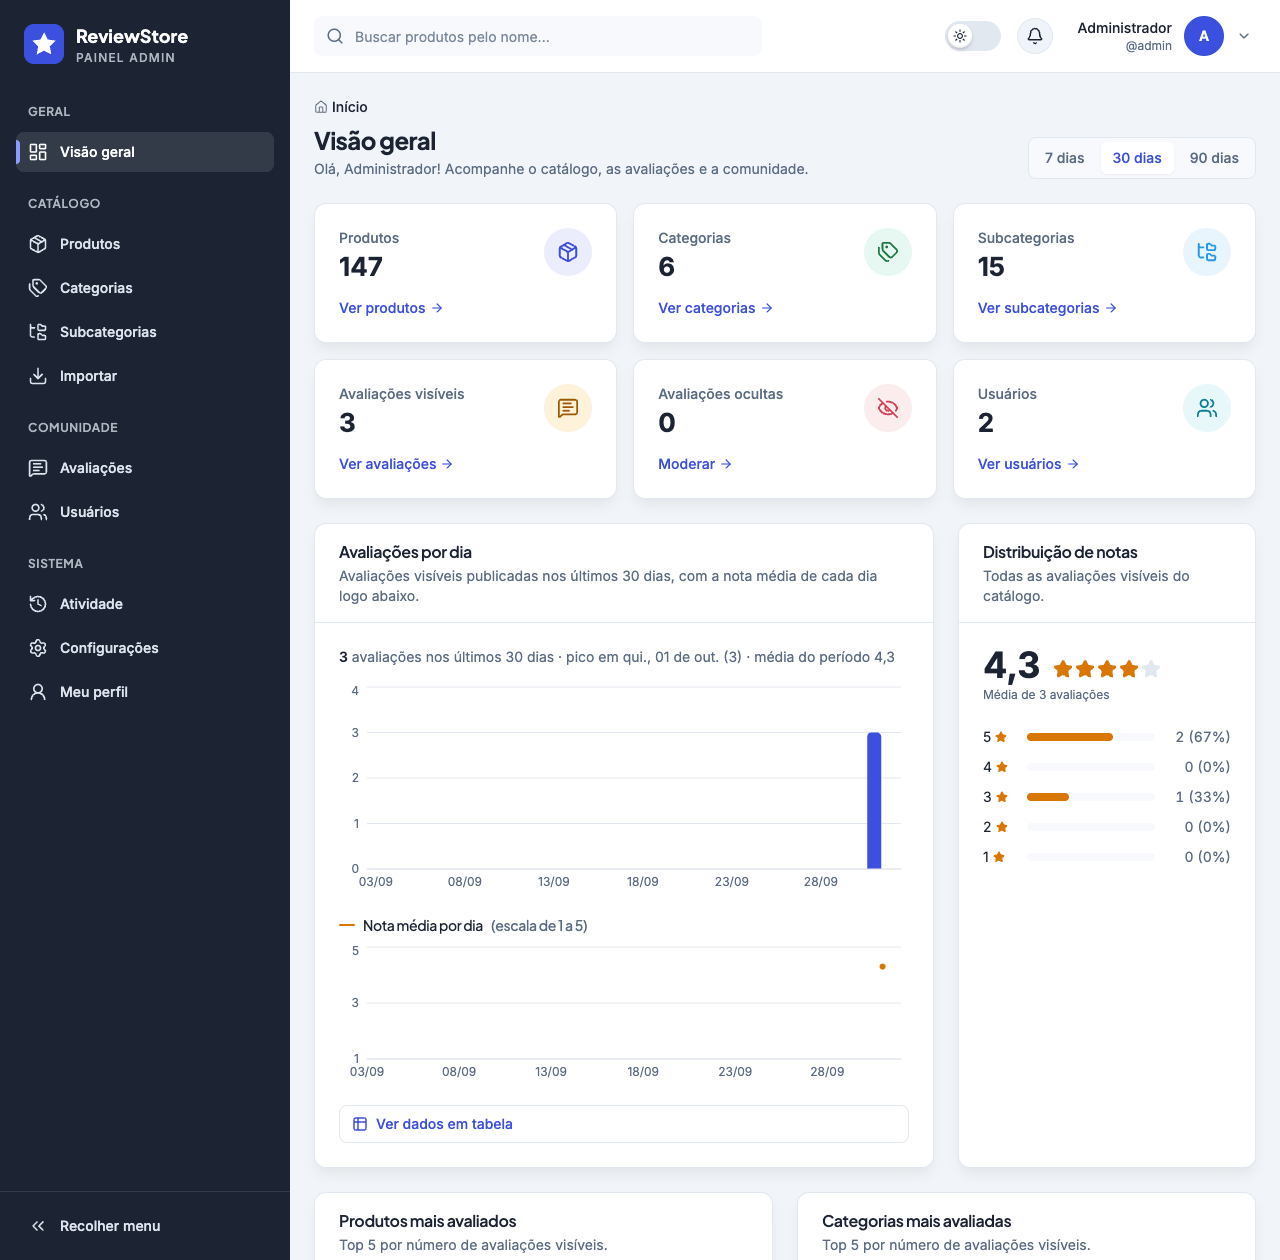
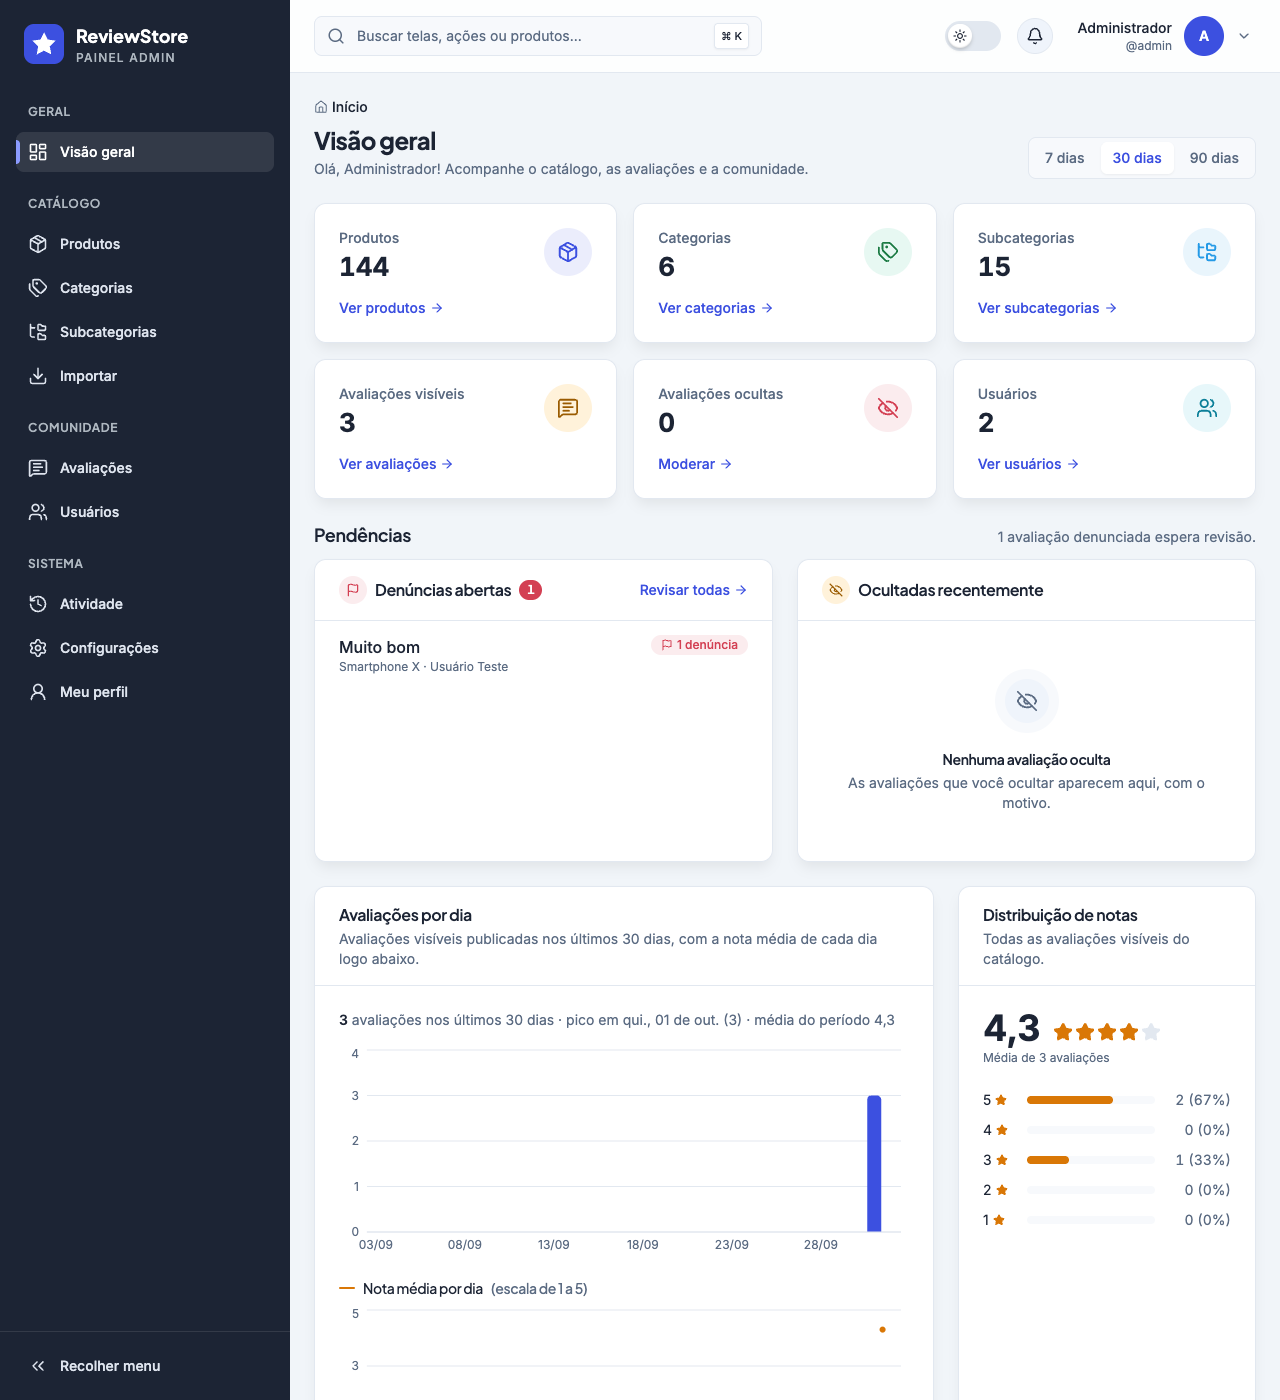
docs(readme): documenta denúncias, resposta, lote, exportação, busca rápida e testes

diff --git a/README.md b/README.md
@@ -5,7 +5,7 @@
 # ReviewStore · Painel admin
 
 **Painel administrativo do catálogo e das avaliações do ecossistema _Production Review_.**
-Gerencie o catálogo, importe produtos reais do Open Food Facts, modere avaliações, administre usuários e acompanhe tudo em gráficos, na trilha de auditoria e em tempo real.
+Gerencie o catálogo, importe produtos reais do Open Food Facts, trate denúncias, responda e modere avaliações (uma a uma ou em lote), administre usuários, exporte CSV e acompanhe tudo em gráficos, na trilha de auditoria e em tempo real. Tudo a um <kbd>Ctrl</kbd> <kbd>K</kbd> de distância.
 
 <p>
   <img alt="React 18" src="https://img.shields.io/badge/React-18-3C50E0?style=for-the-badge&logo=react&logoColor=white" />
@@ -18,6 +18,7 @@ Gerencie o catálogo, importe produtos reais do Open Food Facts, modere avaliaç
   <img alt="Recharts" src="https://img.shields.io/badge/gráficos-Recharts-1C2434?style=flat-square" />
   <img alt="TanStack Query" src="https://img.shields.io/badge/TanStack_Query-1C2434?style=flat-square" />
   <img alt="Vitest" src="https://img.shields.io/badge/testes-Vitest-1C2434?style=flat-square" />
+  <img alt="Playwright" src="https://img.shields.io/badge/E2E-Playwright-1C2434?style=flat-square" />
   <img alt="Modo escuro" src="https://img.shields.io/badge/modo-escuro-24303F?style=flat-square" />
   <img alt="Padrão MVVM" src="https://img.shields.io/badge/arquitetura-MVVM-1C2434?style=flat-square" />
 </p>
@@ -25,6 +26,7 @@ Gerencie o catálogo, importe produtos reais do Open Food Facts, modere avaliaç
 [Funcionalidades](#-funcionalidades) ·
 [Telas](#-telas) ·
 [Como rodar](#-como-rodar) ·
+[Testes](#-testes) ·
 [Arquitetura](#-arquitetura) ·
 [Acessibilidade](#-acessibilidade) ·
 [Design system](#-design-system)
@@ -43,35 +45,58 @@ Gerencie o catálogo, importe produtos reais do Open Food Facts, modere avaliaç
 
 | | |
 |---|---|
-| 📊 **Visão geral com gráficos** | Totais (produtos, categorias, subcategorias, avaliações visíveis e ocultas, usuários), avaliações por dia com a nota média de cada dia, distribuição de notas, top 5 produtos e categorias e novos usuários por dia, com período de **7, 30 ou 90 dias**. |
+| 📊 **Visão geral com gráficos** | **Pendências** no topo (denúncias abertas e avaliações ocultadas por último), totais (produtos, categorias, subcategorias, avaliações visíveis e ocultas, usuários), avaliações por dia com a nota média de cada dia, distribuição de notas, top 5 produtos e categorias e novos usuários por dia, com período de **7, 30 ou 90 dias**. |
 | 📦 **Catálogo completo** | CRUD de categorias, subcategorias e produtos, com slug gerado automaticamente a partir do nome (e editável). Produtos com **miniatura, nota média**, filtros por categoria/subcategoria e ordenação (recentes, nome, melhor avaliados, mais avaliados). |
 | 🖼 **Imagens de produto** | Galeria na edição do produto, com capa, origem (ex.: Open Food Facts) e **exclusão**; upload com validação de tipo e tamanho. |
-| 📥 **Importar catálogo** | Importação do **Open Food Facts** (dados abertos, ODbL) com **progresso ao vivo**: barra, passo atual, contadores, erros e resumo com links. Idempotente: nada é duplicado. |
-| 🛡 **Moderação de avaliações** | Abas *Todas · Visíveis · Ocultas* com contadores, filtros por produto, nota e texto, **ocultar com motivo obrigatório**, restaurar e quem moderou e quando. |
+| 📥 **Importar catálogo** | Importação do **Open Food Facts** (dados abertos, ODbL) com **progresso ao vivo**: barra, passo atual, contadores, erros e resumo com links. Idempotente: nada é duplicado. **Remover duplicados** com confirmação e resumo (grupos, removidos e links para os mantidos). |
+| 🛡 **Moderação de avaliações** | Abas *Todas · Visíveis · Ocultas · Denunciadas* com contadores, filtros por produto, nota e texto, **ocultar com motivo obrigatório** (com motivos rápidos), restaurar e quem moderou e quando. |
+| 🚩 **Denúncias** | Selo com o número de denúncias em cada linha e painel lateral com motivo, detalhes, quem denunciou e quando. **Descartar** mantém a avaliação; **Ocultar** já sugere o motivo a partir das denúncias e as resolve. |
+| 💬 **Resposta oficial** | Escrever, editar e remover a “Resposta da equipe ReviewStore” (até 1000 caracteres, com contador), visível na linha e no painel da avaliação. |
+| 🖼 **Fotos das avaliações** | Miniaturas na moderação, visualizador acessível (setas, <kbd>Esc</kbd>, “Foto 2 de 3”) e remoção pelo admin. |
+| ☑ **Moderação em lote** | Checkboxes com “selecionar página”, barra fixa com **Ocultar selecionadas** (motivo obrigatório) e **Restaurar selecionadas**, contando só as avaliações em que a ação faz sentido. |
+| 📄 **Exportar CSV** | Avaliações (com os filtros atuais), usuários e atividade, com o nome de arquivo do `Content-Disposition` (UTF-8 com BOM e `;`, prontos para o Excel). |
+| ⌨ **Busca rápida** | <kbd>Ctrl</kbd> <kbd>K</kbd> / <kbd>⌘</kbd> <kbd>K</kbd> ou o botão do header: vai para qualquer tela ou ação e busca produtos pelo autocompletar da API. |
 | 👥 **Usuários** | Busca, filtros por perfil e situação, **tornar/remover administrador** e **desativar/reativar** com confirmação. As ações sobre a própria conta ficam bloqueadas, com explicação. |
 | 🕵 **Atividade (auditoria)** | Linha do tempo de todos os eventos (cadastros, logins, catálogo, avaliações, moderação, importações) com ícone e cor por tipo, filtros por tipo, entidade, período e busca, resumo por tipo e por dia e links para a entidade. |
 | 🔔 **Notificações em tempo real** | Cada nova avaliação chega via **SSE** com tipo do evento, data em que ocorreu e link direto, além de atualizar listas e gráficos. |
-| 🔐 **Sessão segura** | Cookies `httpOnly`, renovação automática pelo refresh token e tela de **acesso restrito** para quem não é administrador. |
+| 🔐 **Sessão segura** | Cookies `httpOnly`, renovação automática pelo refresh token, tela de **acesso restrito** para quem não é administrador, política de senha da API (8 a 72 caracteres, letras e números) e **contagem regressiva** quando o rate limit (429) pede uma pausa. |
 | 🌗 **Modo escuro** | Tema claro e escuro sincronizados em todo o painel, preferência salva no navegador. |
+| 📏 **Tabelas confortáveis** | Densidade confortável ou compacta (salva no navegador), cabeçalho fixo e ações agrupadas no menu “Mais ações”. |
 | 📱 **Responsivo** | Menu lateral recolhível no desktop e em gaveta no celular. |
 
 ## 🖼 Telas
 
 <table>
   <tr>
+    <td width="50%"><img src="docs/screenshots/denuncias.png" alt="Painel lateral com as denúncias de uma avaliação, motivos, detalhes e as ações descartar e ocultar" /></td>
+    <td width="50%"><img src="docs/screenshots/resposta.png" alt="Painel da avaliação com foto e a resposta oficial da equipe, com editar e remover" /></td>
+  </tr>
+  <tr>
+    <td align="center"><sub><b>Denúncias</b>: motivos, detalhes, descartar ou ocultar</sub></td>
+    <td align="center"><sub><b>Resposta oficial</b> e fotos da avaliação</sub></td>
+  </tr>
+  <tr>
+    <td width="50%"><img src="docs/screenshots/lote.png" alt="Avaliações selecionadas com a barra de ações em lote para ocultar ou restaurar" /></td>
+    <td width="50%"><img src="docs/screenshots/busca-rapida.png" alt="Busca rápida aberta com Ctrl+K mostrando produtos encontrados e atalhos de teclado" /></td>
+  </tr>
+  <tr>
+    <td align="center"><sub><b>Moderação em lote</b>: selecionar página e barra fixa</sub></td>
+    <td align="center"><sub><b>Busca rápida</b> (<kbd>Ctrl</kbd> <kbd>K</kbd>): telas, ações e produtos</sub></td>
+  </tr>
+  <tr>
     <td width="50%"><img src="docs/screenshots/produtos.png" alt="Tabela de produtos com miniatura, categoria, nota média, filtros e ordenação" /></td>
     <td width="50%"><img src="docs/screenshots/importar.png" alt="Importação do Open Food Facts com explicação da fonte, licença e taxonomia" /></td>
   </tr>
   <tr>
     <td align="center"><sub><b>Produtos</b>: miniatura, nota, filtros e ordenação</sub></td>
-    <td align="center"><sub><b>Importar catálogo</b>: Open Food Facts com progresso ao vivo</sub></td>
+    <td align="center"><sub><b>Importar catálogo</b>: progresso ao vivo e remover duplicados</sub></td>
   </tr>
   <tr>
     <td width="50%"><img src="docs/screenshots/avaliacoes.png" alt="Lista de avaliações com abas de status, filtros e ações de moderação" /></td>
     <td width="50%"><img src="docs/screenshots/moderacao.png" alt="Modal de ocultar avaliação com motivo obrigatório" /></td>
   </tr>
   <tr>
-    <td align="center"><sub><b>Avaliações</b>: abas por status, filtros e ações</sub></td>
+    <td align="center"><sub><b>Avaliações</b>: abas, denúncias, fotos, resposta e exportação</sub></td>
     <td align="center"><sub><b>Moderação</b>: ocultar exige motivo</sub></td>
   </tr>
   <tr>
@@ -125,13 +150,38 @@ npm run dev
 | `npm run build` | Checagem de tipos (`tsc -b`) + build de produção em `dist/` |
 | `npm run preview` | Serve o build de produção localmente |
 | `npm run lint` | ESLint em todo o projeto |
-| `npm test` | Testes unitários com Vitest (slug, mensagens de erro, schemas, eventos de auditoria, status, progresso da importação e dados dos gráficos) |
+| `npm test` | Testes unitários e de componente (Vitest + Testing Library) |
+| `npm run test:watch` | Vitest em modo observação |
+| `npm run test:e2e` | E2E com Playwright e a API **mockada** (sobe o `npm run dev` se ele não estiver rodando) |
+| `npm run test:e2e:ui` | E2E no modo interativo do Playwright |
+| `npm run test:e2e:real` | E2E contra a API real (`E2E_REAL_API=1`), pulando os testes que alteram dados |
 
 ### Variáveis de ambiente
 
 | Variável | Exemplo | Descrição |
 |---|---|---|
 | `VITE_API_URL` | `http://localhost:8084/api/v1` | URL base da API, incluindo `/api/v1` |
+
+## 🧪 Testes
+
+**Unitários e de componente** (Vitest + Testing Library, `src/**/*.test.ts(x)`): lógica pura (datas UTC, política de senha, rate limit, CSV, denúncias, eventos, status, seleção) e os componentes-chave, testados como o usuário os usa (papéis ARIA, teclado e foco): busca rápida, barra de lote, modal de motivo, formulário de resposta, exportação CSV e visualizador de fotos.
+
+**E2E** (Playwright, `test/e2e`): a API é mockada com `page.route` por uma API falsa **com estado** (`support/mock-api.ts`) e fixtures no formato do contrato (`fixtures/data.ts`), então os testes rodam sem backend e conferem o corpo de cada chamada. Qualquer erro de JavaScript na página reprova o teste.
+
+| Fluxo | Arquivo |
+|---|---|
+| Login admin → visão geral com pendências · usuário comum vê “acesso restrito” · 429 com contagem regressiva | `auth.e2e-spec.ts` |
+| Filtrar denunciadas → ocultar (resolve as denúncias) e descartar | `reports.e2e-spec.ts` |
+| Responder, editar e remover a resposta · fotos no visualizador e remoção | `reply.e2e-spec.ts` |
+| Moderação em lote: selecionar página, ocultar com motivo e restaurar | `bulk.e2e-spec.ts` |
+| Exportar CSV de avaliações (filtros atuais), usuários e atividade | `export.e2e-spec.ts` |
+| Remover duplicados com confirmação e resumo | `dedupe.e2e-spec.ts` |
+| Busca rápida: <kbd>Ctrl</kbd> <kbd>K</kbd>, setas, <kbd>Enter</kbd>, <kbd>Esc</kbd> e foco | `command-palette.e2e-spec.ts` |
+
+> [!TIP]
+> Localmente o Playwright usa o **Chrome instalado** (`channel: "chrome"`) e reaproveita o `npm run dev`. Com `E2E_REAL_API=1`, o global-setup faz login uma vez e guarda a sessão em `test/.auth/` (a API aceita só 5 logins por minuto); os testes que alteram dados são pulados.
+
+No CI (`testings.yml`) rodam lint, tipos dos E2E, testes, build e os E2E (com o Chromium do Playwright, contra o build servido pelo `vite preview`); o relatório do Playwright fica como artefato. O **Dependabot** abre uma PR semanal agrupada para o npm e uma mensal para as actions.
 
 ## 🐳 Docker e deploy
 
@@ -144,7 +194,7 @@ docker run -p 5173:5173 dashboard-production-review-react   # http://localhost:5
 
 ```mermaid
 flowchart LR
-    T["testings<br/>lint + vitest + build<br/>push na main"] -->|sucesso| P["publish<br/>build do commit testado"]
+    T["testings<br/>lint + vitest + build + E2E<br/>push na main"] -->|sucesso| P["publish<br/>build do commit testado"]
     P --> GHCR[("ghcr.io (privado)<br/>latest · sha-commit")]
     GHCR --> D["deploy<br/>login temporário + pull + up"]
     D --> VPS["VPS<br/>docker compose"]
@@ -194,16 +244,17 @@ src/
 ├── modules/
 │   ├── auth/               # login, cadastro, ativação, esqueci/redefinir senha
 │   └── dashboard/
-│       ├── components/     # Sidebar, Header, PageHeader, StatCard, tabelas, formulários, gráficos, moderação
+│       ├── components/     # Sidebar, Header, busca rápida, PageHeader, StatCard, tabelas, gráficos, moderação, exportação
 │       ├── hooks/          # queries, mutations, SSE de notificações, slug...
 │       ├── schemas/        # schemas zod compartilhados do catálogo
 │       ├── services/       # chamadas /category, /sub-categorie, /production, /review e /admin/*
 │       ├── utils/          # lógica pura testada: eventos, status, progresso, gráficos, datas relativas
 │       └── view/           # uma pasta por tela: home, *-list, create-*, edit-*, import-catalog,
 │                           # users, activity, profile, settings
-├── shared/                 # componentes, hooks, tipos, utilitários e preferências (tema)
+├── shared/                 # componentes (modal, painel lateral, visualizador), hooks, tipos, utilitários e preferências
 ├── ProtectedRouter.tsx     # guarda de rota: sessão + perfil ADMIN
 └── routes.tsx
+test/e2e/                   # Playwright: specs, fixtures e a API mockada
 ```
 
 </details>
@@ -217,7 +268,11 @@ src/
 | Produtos | `GET /production/list?search&categoryId&subCategorieId&onlyRated&property&sort` · `GET /production/{id}` · `POST /production/add` · `PUT /production/update/{id}` · `DELETE /production/delete/{id}` |
 | Imagens | `POST /production/file` (multipart) · `DELETE /production/file/{id}` |
 | Avaliações | `GET /review/list` · `GET/PUT/DELETE /review/{id}` · `POST /review/` |
-| Moderação | `GET /admin/reviews?status&note&productId&search` · `PATCH /admin/reviews/{id}/moderation` |
+| Moderação | `GET /admin/reviews?status&note&productId&search&reported` · `PATCH /admin/reviews/{id}/moderation` · `PATCH /admin/reviews/moderation` (lote) |
+| Denúncias | `GET /admin/reviews/{id}/reports` · `DELETE /admin/reviews/{id}/reports` |
+| Resposta e fotos | `PUT/DELETE /admin/reviews/{id}/reply` · `DELETE /review/{id}/images/{imageId}` · `GET /files/**` |
+| Exportação | `GET /admin/reviews/export.csv` · `GET /admin/users/export.csv` · `GET /admin/activity/export.csv` |
+| Catálogo | `POST /admin/catalog/deduplicate` · `GET /production/suggest?q&limit` (busca rápida) |
 | Usuários | `GET /admin/users?search&role&active` · `PATCH /admin/users/{id}/admin` · `PATCH /admin/users/{id}/active` |
 | Estatísticas | `GET /admin/stats?days=7\|30\|90` |
 | Importação | `POST /admin/import/open-food-facts` · `GET /admin/import/jobs/{id}` (polling a cada 2 s) · `GET /admin/import/jobs/latest` |
@@ -233,12 +288,20 @@ src/
 - **Moderação dentro de Avaliações**, como abas *Todas · Visíveis · Ocultas*: é a mesma entidade e o administrador modera a partir da lista que já usa, sem alternar entre telas. `/dashboard/moderation` abre direto a aba *Ocultas*.
 - **Nota média em gráfico separado**, alinhado pelo mesmo eixo de datas e com tooltips sincronizados: contagem e nota têm escalas diferentes, e dois eixos Y no mesmo gráfico sugeririam correlações que não existem.
 - **Filtros na URL** (produtos, avaliações, usuários, atividade e período da visão geral): dá para compartilhar e voltar com o navegador sem perder o contexto.
+- **Denúncias como aba** (*Denunciadas*): é o mesmo fluxo de moderação. O selo da linha abre um **painel lateral** com a avaliação inteira, as denúncias e a resposta, para decidir sem sair da lista. **Ocultar** a partir das denúncias já vem com um motivo sugerido (ex.: “Ocultada após 3 denúncias (spam).”), editável.
+- **Lote só onde faz sentido**: “Ocultar selecionadas” conta só as visíveis e “Restaurar selecionadas” só as ocultas; a seleção vale para a página e zera ao trocar filtros ou página.
+- **Busca rápida** em vez da busca de produtos no header: um único lugar para ir a qualquer tela, executar ações comuns e achar produtos (a partir de 2 letras, com debounce).
+- **Datas**: a API devolve ISO-8601 em UTC (`Z`) e o painel mostra no fuso do navegador; datas sem hora (`AAAA-MM-DD`, dos gráficos) são dias do calendário, sem voltar um dia no Brasil.
+- **Avisos no topo**: os toasts ficam no canto superior direito para não cobrir a barra de ações em lote.
 
 ## ♿ Acessibilidade
 
 - **Formulários**: labels associados com indicação de obrigatório, erros ligados por `aria-describedby` + `aria-invalid` e foco automático no primeiro campo inválido.
 - **Teclado**: foco sempre visível, link **"Pular para o conteúdo"**, menus com setas e <kbd>Esc</kbd>, e gaveta mobile que fecha com <kbd>Esc</kbd>.
-- **Modal de confirmação**: `role="alertdialog"`, foco preso dentro do modal, <kbd>Esc</kbd> fecha e o foco volta para quem abriu.
+- **Modal de confirmação**: `role="alertdialog"`, foco preso dentro do modal, <kbd>Esc</kbd> fecha e o foco volta para quem abriu. Diálogos empilhados (ex.: confirmar dentro do painel lateral) respondem ao teclado só o de cima.
+- **Busca rápida**: combobox ARIA completo (`aria-expanded`, `aria-controls`, `aria-activedescendant`, grupos nomeados), foco preso, setas, <kbd>Enter</kbd>, <kbd>Esc</kbd> e atalhos visíveis no rodapé.
+- **Seleção em lote**: checkboxes nativos com rótulo por linha, “selecionar página” com estado misto (`aria-checked="mixed"`) e a barra como região nomeada com a contagem em `aria-live`.
+- **Visualizador de fotos**: diálogo modal com setas ← →, miniaturas, posição anunciada (“Foto 2 de 3”) e texto alternativo.
 - **Tabelas**: `<caption>` e `<th scope="col">`; botões só com ícone têm `aria-label` e tooltip.
 - **Navegação**: `aria-current` no menu, breadcrumb e paginação; foco vai para o conteúdo a cada troca de rota.
 - **Feedback**: `aria-live` em contadores, paginação e notificações; nota em estrelas como grupo de rádios.
